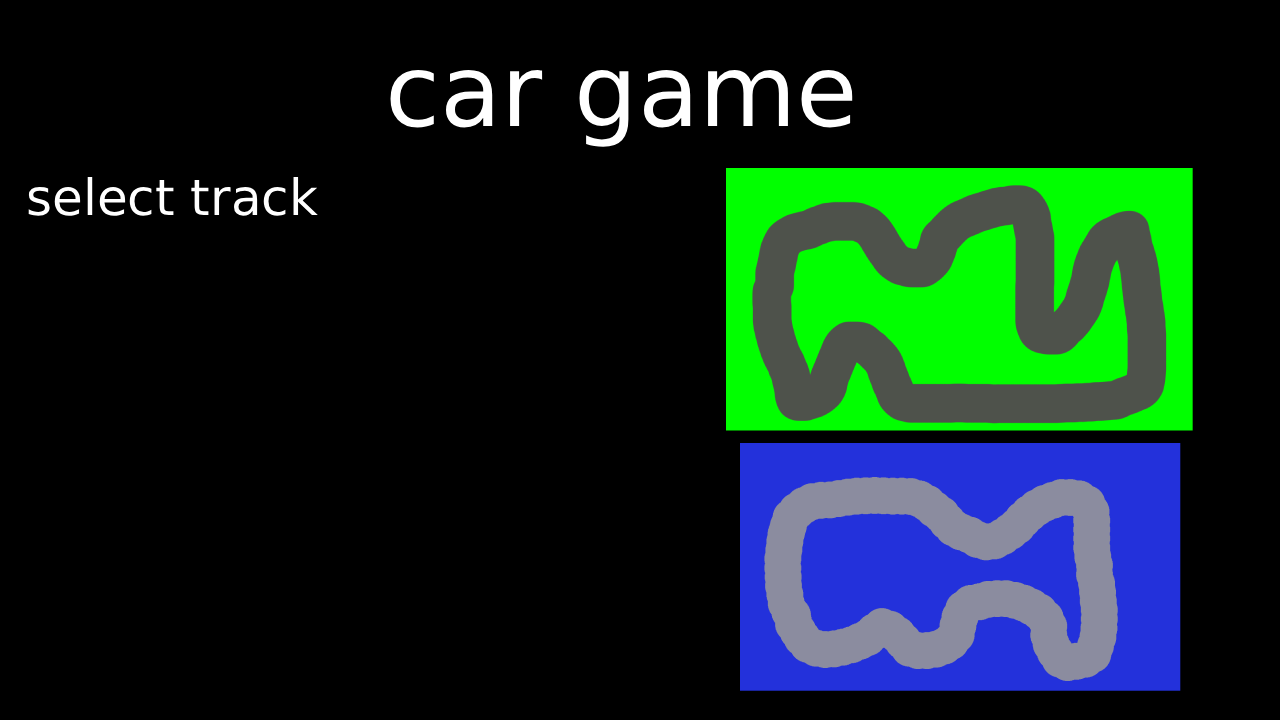
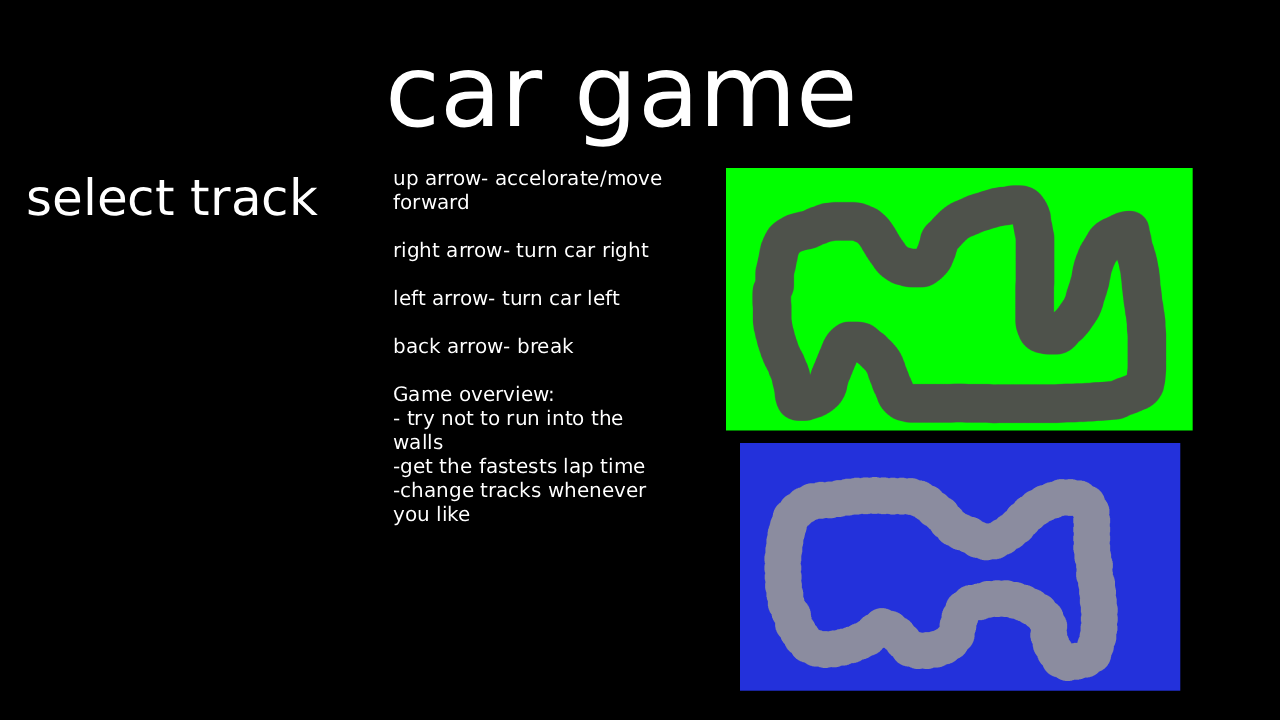
made the cars position and angle reset whenever you selected the track you want. also upadated the start screen with instructions for the game.

diff --git a/car_game.py b/car_game.py
@@ -147,29 +147,37 @@ while True:
         screen.blit(track2_button, (20, 570))
     # this is basicly the hit box for the 1st track button
     if 420 >= mouse_pos_x >= 20 and 470 >= mouse_pos_y >= 450 and clicked and start_screen_active:
+        start_time = time.time()
         track1_select = True
         track2_select = False
         car_visable = True
         finish_line_active = True
         start_screen_active = False
         exit_button_active = True
+        lap_time_list = []
+
     # this is the hit box for the second track button
     elif 420 >= mouse_pos_x >= 20 and 590 >= mouse_pos_y >= 570 and clicked and start_screen_active:
         # all of these change so that the track shows up
+        start_time = time.time()
         track2_select = True
         car_visable = True
         finish_line_active = True
         track1_select = False
         start_screen_active = False
         exit_button_active = True
-    
+        lap_time_list = []
     if 400 >= mouse_pos_x >= 0 and 100 >= mouse_pos_y >= 0 and clicked and track1_select:
+        
         track1_select = False
         track2_select = False
         car_visable = False
         finish_line_active = False
         start_screen_active = True
         exit_button_active = False
+        my_car.x = 125
+        my_car.y = 500
+        my_car.angle = 0
     elif 400 >= mouse_pos_x >= 0 and 100 >= mouse_pos_y >= 0 and clicked and track2_select:
         track2_select = False
         track1_select = False
@@ -177,7 +185,9 @@ while True:
         finish_line_active = False
         start_screen_active = True
         exit_button_active = False
-    
+        my_car.x = 125
+        my_car.y = 500
+        my_car.angle = 0
     lap_time = int(time.time() - start_time) 
     
     grass_mask = grass_mask1
